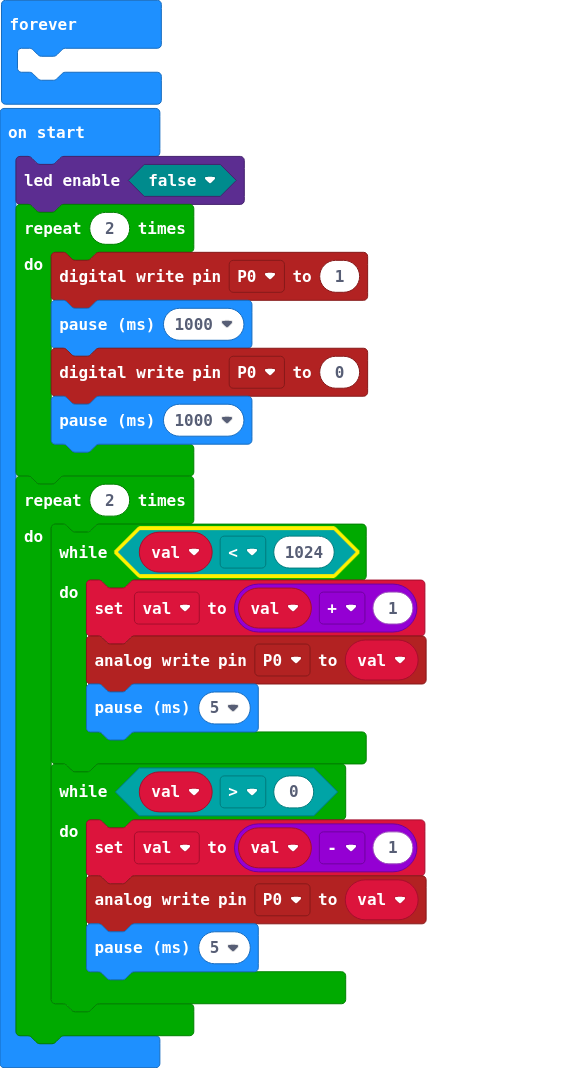
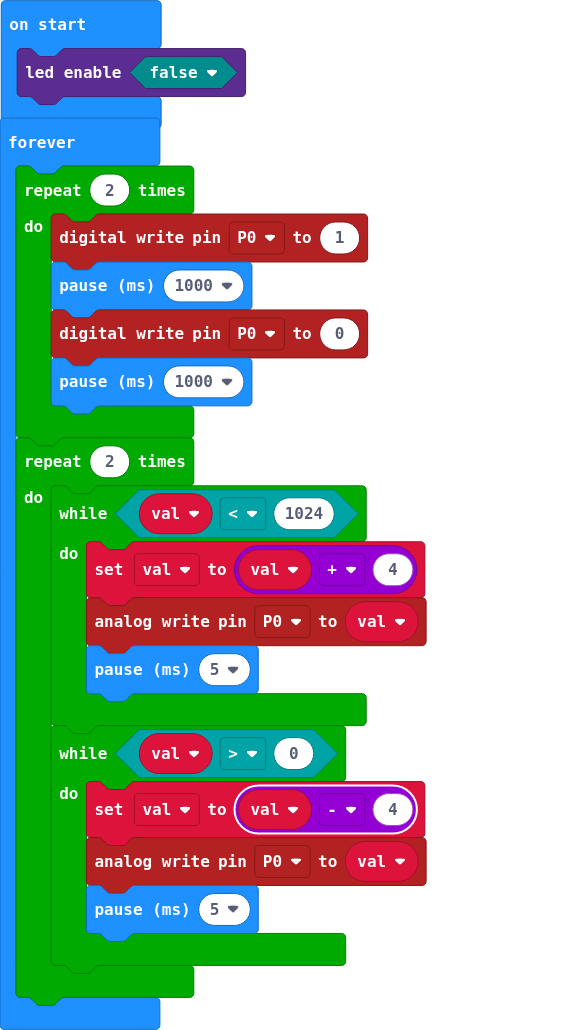
forever loop

Changed region(s): [[0.0, 0.0, 0.7423, 0.9631], [0.2474, 0.9631, 0.2784, 0.9942]]

diff --git a/main.ts b/main.ts
@@ -1,23 +1,22 @@
 let val = 0
 led.enable(false)
-for (let index = 0; index < 2; index++) {
-    pins.digitalWritePin(DigitalPin.P0, 1)
-    basic.pause(1000)
-    pins.digitalWritePin(DigitalPin.P0, 0)
-    basic.pause(1000)
-}
-for (let index = 0; index < 2; index++) {
-    while (val < 1024) {
-        val = val + 1
-        pins.analogWritePin(AnalogPin.P0, val)
-        basic.pause(5)
-    }
-    while (val > 0) {
-        val = val - 1
-        pins.analogWritePin(AnalogPin.P0, val)
-        basic.pause(5)
-    }
-}
 basic.forever(function () {
-	
+    for (let index = 0; index < 2; index++) {
+        pins.digitalWritePin(DigitalPin.P0, 1)
+        basic.pause(1000)
+        pins.digitalWritePin(DigitalPin.P0, 0)
+        basic.pause(1000)
+    }
+    for (let index = 0; index < 2; index++) {
+        while (val < 1024) {
+            val = val + 4
+            pins.analogWritePin(AnalogPin.P0, val)
+            basic.pause(5)
+        }
+        while (val > 0) {
+            val = val - 4
+            pins.analogWritePin(AnalogPin.P0, val)
+            basic.pause(5)
+        }
+    }
 })
